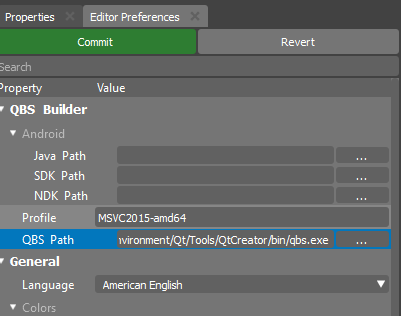
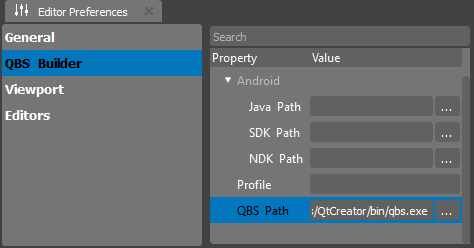
Update

diff --git a/editor/index.rst b/editor/index.rst
@@ -8,10 +8,6 @@ When you create a new project or open an existing one, you will find yourself on
 The main screen provides a versatile workspace that developers can customize to suit their specific needs.
 This workspace is the central hub where you'll perform various tasks and interact with your project's elements.
 
-.. image:: media/workspace.png
-    :alt: Workspace
-    :width: 800
-
 As you work within the main screen and navigate between these areas, you'll have the tools and resources you need to build, edit, and manage your project effectively.
 Feel free to explore the various zones to streamline your workflow and achieve your development goals.
 
@@ -44,15 +40,28 @@ To manage your workspace:
 Main Areas
 ----------
 
+.. image:: media/workspace.png
+    :alt: Workspace
+    :width: 800
+
 The main screen is divided into several key areas:
 
-- **Viewport**: The viewport is the primary working area where you can view and manipulate project content. This is where you'll spend most of your time interacting with project assets.
+**Viewport:**
+The viewport is the primary working area where you can view and manipulate project content.
+This is where you'll spend most of your time interacting with project assets.
 
-- **Properties**: The properties panel, often located on the right side of the screen, displays detailed information and settings for selected project elements. You can use this panel to adjust properties and configurations.
+**Properties:**
+The properties panel, often located on the right side of the screen, displays detailed information and settings for selected project elements.
+You can use this panel to adjust properties and configurations.
 
-- **Content**: This area houses the actual content of your project. It could be your code, design elements, documents, or any other project-specific data. You can organize and manage your content from this section.
+**Content:**
+This area houses the actual content of your project.
+It could be your code, design elements, documents, or any other project-specific data.
+You can organize and manage your content from this section.
 
-- **Hierarchy**: The hierarchy panel provides an overview of the structure and organization of your project. It displays a tree-like representation of project elements, allowing you to navigate and access different parts of your project efficiently.
+**Hierarchy:**
+The hierarchy panel provides an overview of the structure and organization of your project.
+It displays a tree-like representation of project elements, allowing you to navigate and access different parts of your project efficiently.
 
 Remember that the specific features and functionalities within each of these areas may vary depending on your project's nature and the software or platform you're using. Refer to the corresponding sections in this documentation for more detailed information on each area's functionality.
 
@@ -67,3 +76,4 @@ Explore the documentation sections below to learn more about the individual comp
    content
    hierarchy
    plugins
+   builder

diff --git a/editor/builder.rst b/editor/builder.rst
@@ -1,0 +1,63 @@
+.. _doc_tools_builder:
+
+Building Project
+================
+
+Once your project is ready, you may want to run it outside the editor for testing or distribution. This section provides guidance on building your project.
+
+To build a release binary, you will need a compatible compiler for your platform:
+
+- **Visual Studio** - on Windows
+- **clang** - on Linux
+- **XCode** - on MacOS
+
+Ensure that the **Qbs Builder** is accessible by the build environment. You can check this by running the following command in your terminal or command prompt:
+
+    sdk/%version%/tools/qbs
+
+Alternatively, you can specify the Qbs path in the Editor Preferences:
+
+.. image:: media/qbs_path.png
+   :alt: QBS Path
+
+If you cannot find this tab, please navigate to **Window -> Editor Preferences**.
+
+Now, you are ready to build your project. Follow these steps:
+
+1. Click on the **Build Project** button in the toolbar::
+
+   .. image:: media/build_project.png
+      :alt: Build Project
+
+2. After initiating the build process, your game will be placed in a directory.
+
+If the build process is successful, you should see a confirmation message:
+
+   .. image:: media/success.png
+      :alt: Success
+
+Your game will be copied into the specified build directory.
+
+
+Builder Tool
+------------
+
+The Builder tool is a console-friendly Continuous Integration (CI) tool that assists developers in creating a game binary and packaging required resources. Locate the Builder tool in the main binary directory near the World Builder executable::
+
+::
+    sdk/%version%/%platform%/x86_64/bin/Builder
+
+To start the build process, use the following command-line arguments::
+
+::
+    $ Builder -s project.forge -t target/directory -p platform
+
+Where:
+
+- `project.forge` is the path to your project file.
+- `target/directory` is the directory where your game binaries will be placed.
+- `platform` specifies the target platform for which your project will be built.
+
+This tool provides flexibility and automation for building your project from the command line, making it suitable for Continuous Integration workflows.
+
+Explore these building options based on your preference and project requirements.

diff --git a/graphics/index.rst b/graphics/index.rst
@@ -1,12 +1,23 @@
 .. _doc_graphics_index:
 
 Graphics
-==============================
+========
+
+Thunder Engine's graphics features provide powerful tools to control the appearance of your application, offering high customization for visually stunning experiences.
+Whether you are developing for mobile or desktop platforms, Thunder Engine's graphics capabilities enable you to create beautiful and optimized visuals.
+
+Thunder Engine supports both 2D and 3D graphics rendering, providing developers with a comprehensive solution for diverse visual requirements.
+Whether you're creating a pixel-perfect 2D game or an immersive 3D environment, Thunder Engine's graphics capabilities empower you to bring your creative vision to life.
+
+Graphics Features
+-----------------
+
+Explore the following documentation sections to understand and leverage Thunder Engine's extensive graphics features:
 
 .. toctree::
    :maxdepth: 1
    :name: toc-graphics
-   
-   overview
-   
-   
+
+	pipline
+	lighting
+	vfx

diff --git a/graphics/pipeline.rst b/graphics/pipeline.rst
@@ -1,0 +1,11 @@
+.. _doc_graphics_pipeline:
+
+Graphics Pipeline
+=================
+
+Thunder Engine employs a flexible graphics pipeline that allows you to fine-tune the balance between quality and performance on an individual project basis.
+This flexibility ensures that you can tailor the graphical settings to meet the specific requirements of your project, providing a versatile solution for achieving the desired visual fidelity while maintaining optimal performance.
+
+The graphics pipeline in Thunder Engine is task-based, representing each graphical feature as a task in the pipeline.
+This task-oriented approach forms a graph that efficiently processes and renders graphics tasks.
+This system allows for a modular and scalable approach to handling graphics tasks, contributing to the engine's adaptability and efficiency in managing complex visual scenarios.

diff --git a/index.rst b/index.rst
@@ -8,7 +8,7 @@ Thunder Documentation
 
    basics/index
    editor/index
-   .. graphics/index
+   graphics/index
    .. audio/index
    scripting/index
    reference/index
